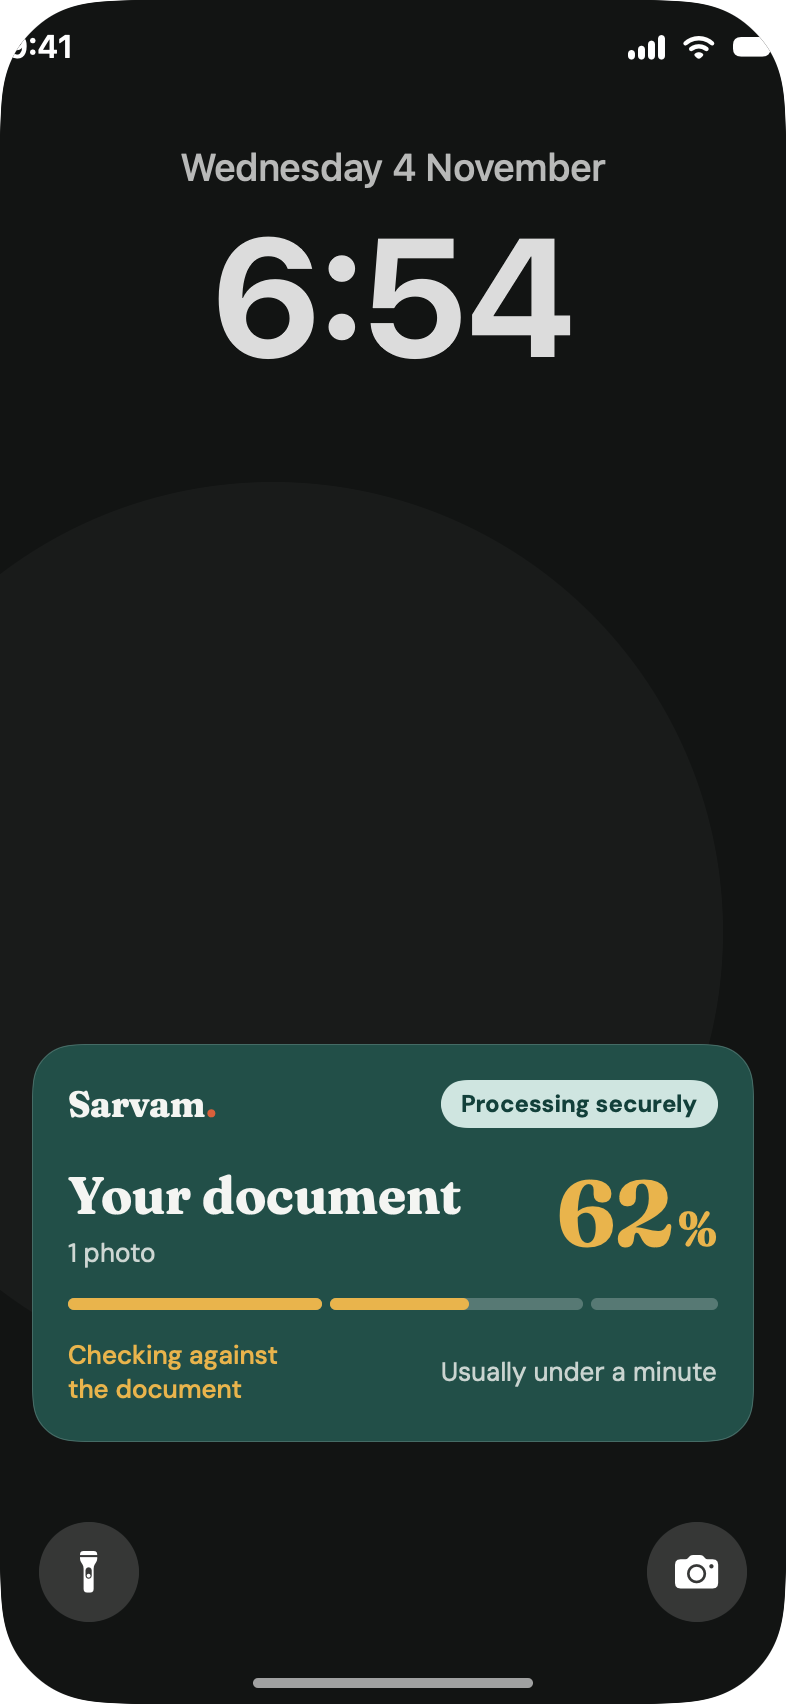
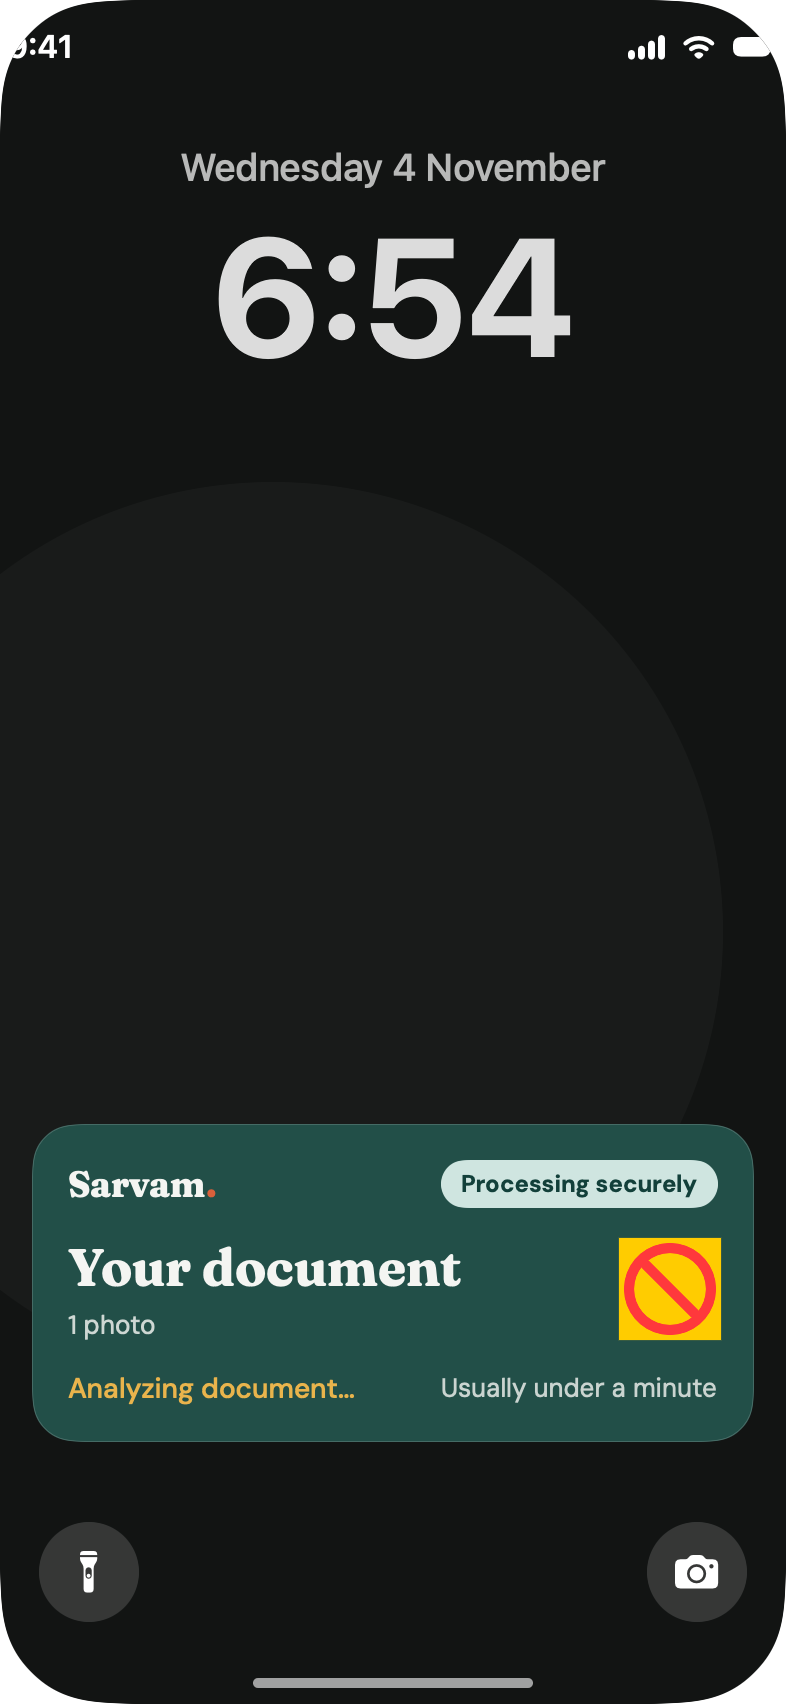
feat(live-activity): implement Option A for scan progress, add CancelScanIntent, re-render previews without percentage

Changed region(s): [[0.0305, 0.591, 0.9771, 0.8398]]

diff --git a/ios/App/SarvamWidgetExtension/SarvamActivityWidget.swift b/ios/App/SarvamWidgetExtension/SarvamActivityWidget.swift
@@ -269,8 +269,16 @@ struct CompactLeadingView: View {
                     .foregroundColor(Color.svInk)
             }
         } else {
-            ProgressRingView(progress: state.progress, size: 22)
-                .accessibilityLabel("\(state.progress)%")
+            // Scanning: Sarvam monogram badge
+            ZStack {
+                Circle()
+                    .fill(Color.svTealCard)
+                    .frame(width: 22, height: 22)
+                Text("S")
+                    .font(SarvamFonts.fraunces(size: 13, weight: .bold))
+                    .foregroundColor(Color.svOffWhite)
+            }
+            .accessibilityLabel("Sarvam analyzing document")
         }
     }
 }
@@ -289,10 +297,11 @@ struct CompactTrailingView: View {
                 .font(SarvamFonts.fraunces(size: 13, weight: .bold))
                 .foregroundColor(Color.svMustard)
         } else {
-            Text("\(state.progress)%")
-                .font(SarvamFonts.dmSans(size: 14, weight: .semibold))
-                .monospacedDigit()
-                .foregroundColor(Color.svMustard)
+            // Option A: Animated indicator, NO percentage number
+            ProgressView()
+                .progressViewStyle(CircularProgressViewStyle(tint: Color.svMustard))
+                .scaleEffect(0.85)
+                .accessibilityLabel("Analyzing document")
         }
     }
 }
@@ -314,7 +323,10 @@ struct MinimalView: View {
                     .foregroundColor(Color.svInk)
             }
         } else {
-            ProgressRingView(progress: state.progress, size: 20)
+            // Option A: Animated indicator, NO percentage number
+            ProgressView()
+                .progressViewStyle(CircularProgressViewStyle(tint: Color.svMustard))
+                .scaleEffect(0.85)
         }
     }
 }
@@ -359,7 +371,12 @@ struct ExpandedLeadingView: View {
             .padding(.leading, 8)
         } else {
             HStack(spacing: 8) {
-                ProgressRingView(progress: state.progress, size: 26)
+                ProgressView()
+                    .progressViewStyle(CircularProgressViewStyle(tint: Color.svMustard))
+                    .scaleEffect(1.2)
+                Text("Analyzing document…")
+                    .font(SarvamFonts.dmSans(size: 14, weight: .medium))
+                    .foregroundColor(Color.svMustard)
             }
             .padding(.leading, 8)
         }
@@ -378,11 +395,8 @@ struct ExpandedTrailingView: View {
         } else if state.phase == "ready" {
             EmptyView()
         } else {
-            Text("\(state.progress)%")
-                .font(SarvamFonts.fraunces(size: 28, weight: .bold))
-                .monospacedDigit()
-                .foregroundColor(Color.svMustard)
-                .padding(.trailing, 8)
+            // Option A: NO percentage number anywhere
+            EmptyView()
         }
     }
 }
@@ -517,12 +531,27 @@ struct ExpandedBottomView: View {
                     .foregroundColor(Color.svOffWhite)
                     .privacySensitive()
 
-                Text(state.stage)
-                    .font(SarvamFonts.dmSans(size: 13, weight: .regular))
-                    .foregroundColor(Color.svOffWhite.opacity(0.8))
+                HStack {
+                    Text("Usually under a minute")
+                        .font(SarvamFonts.dmSans(size: 13, weight: .regular))
+                        .foregroundColor(Color.svOffWhite.opacity(0.8))
 
-                ThreeSegmentProgressBar(progress: state.progress)
-                    .padding(.top, 4)
+                    Spacer()
+
+                    if #available(iOS 17.0, *) {
+                        Button(intent: CancelScanIntent()) {
+                            Text("Cancel")
+                                .font(SarvamFonts.dmSans(size: 12, weight: .semibold))
+                                .foregroundColor(Color.svOffWhite.opacity(0.75))
+                                .padding(.horizontal, 10)
+                                .padding(.vertical, 4)
+                                .background(Color.svDarkBtn)
+                                .clipShape(Capsule())
+                        }
+                        .buttonStyle(.plain)
+                        .accessibilityLabel("Cancel document analysis")
+                    }
+                }
             }
             .padding(.horizontal, 10)
             .padding(.bottom, 8)
@@ -566,8 +595,8 @@ struct LockScreenScanningView: View {
                     .clipShape(Capsule())
             }
 
-            // Middle Row: Title & Subtitle vs Large Percentage
-            HStack(alignment: .bottom) {
+            // Middle Row: Title & Subtitle vs Animated Indicator (Option A: NO percentage)
+            HStack(alignment: .center) {
                 VStack(alignment: .leading, spacing: 4) {
                     Text(state.displayTitle)
                         .font(SarvamFonts.fraunces(size: 26, weight: .bold))
@@ -582,19 +611,16 @@ struct LockScreenScanningView: View {
 
                 Spacer()
 
-                Text("\(state.progress)%")
-                    .font(SarvamFonts.fraunces(size: 44, weight: .bold))
-                    .monospacedDigit()
-                    .foregroundColor(Color.svMustard)
+                ProgressView()
+                    .progressViewStyle(CircularProgressViewStyle(tint: Color.svMustard))
+                    .scaleEffect(1.6)
+                    .padding(.trailing, 8)
             }
-
-            // 3-Segment Progress Bar
-            ThreeSegmentProgressBar(progress: state.progress)
 
             // Bottom Row: Stage Text vs Time Left
             HStack {
-                Text(state.stage)
-                    .font(SarvamFonts.dmSans(size: 13, weight: .medium))
+                Text("Analyzing document…")
+                    .font(SarvamFonts.dmSans(size: 14, weight: .medium))
                     .foregroundColor(Color.svMustard)
                 Spacer()
                 Text("Usually under a minute")

diff --git a/ios/scripts/render_previews.swift b/ios/scripts/render_previews.swift
@@ -252,7 +252,7 @@ struct RenderLockScreenScanningView: View {
                     .clipShape(Capsule())
             }
 
-            HStack(alignment: .bottom) {
+            HStack(alignment: .center) {
                 VStack(alignment: .leading, spacing: 4) {
                     Text(state.displayTitle)
                         .font(SarvamFonts.fraunces(size: 26, weight: .bold))
@@ -266,21 +266,16 @@ struct RenderLockScreenScanningView: View {
 
                 Spacer()
 
-                HStack(alignment: .firstTextBaseline, spacing: 2) {
-                    Text("\(state.progress)")
-                        .font(SarvamFonts.fraunces(size: 46, weight: .bold))
-                        .foregroundColor(Color.svMustard)
-                    Text("%")
-                        .font(SarvamFonts.fraunces(size: 24, weight: .bold))
-                        .foregroundColor(Color.svMustard)
-                }
+                // Option A: Animated indicator, NO percentage
+                ProgressView()
+                    .progressViewStyle(CircularProgressViewStyle(tint: Color.svMustard))
+                    .scaleEffect(1.6)
+                    .padding(.trailing, 8)
             }
 
-            ThreeSegmentProgressBar(progress: state.progress)
-
             HStack {
-                Text(state.stage)
-                    .font(SarvamFonts.dmSans(size: 13, weight: .medium))
+                Text("Analyzing document…")
+                    .font(SarvamFonts.dmSans(size: 14, weight: .medium))
                     .foregroundColor(Color.svMustard)
                 Spacer()
                 Text("Usually under a minute")
@@ -470,16 +465,22 @@ struct RenderExpandedScanningIsland: View {
     var body: some View {
         VStack(alignment: .leading, spacing: 10) {
             HStack {
-                ProgressRingView(progress: state.progress, size: 26)
-                Spacer()
-                HStack(alignment: .firstTextBaseline, spacing: 2) {
-                    Text("\(state.progress)")
-                        .font(SarvamFonts.fraunces(size: 28, weight: .bold))
-                        .foregroundColor(Color.svMustard)
-                    Text("%")
-                        .font(SarvamFonts.fraunces(size: 16, weight: .bold))
+                HStack(spacing: 8) {
+                    ProgressView()
+                        .progressViewStyle(CircularProgressViewStyle(tint: Color.svMustard))
+                        .scaleEffect(1.2)
+                    Text("Analyzing document…")
+                        .font(SarvamFonts.dmSans(size: 14, weight: .medium))
                         .foregroundColor(Color.svMustard)
                 }
+                Spacer()
+                Text("Cancel")
+                    .font(SarvamFonts.dmSans(size: 12, weight: .semibold))
+                    .foregroundColor(Color.svOffWhite.opacity(0.75))
+                    .padding(.horizontal, 10)
+                    .padding(.vertical, 4)
+                    .background(Color.svDarkBtn)
+                    .clipShape(Capsule())
             }
 
             VStack(alignment: .leading, spacing: 4) {
@@ -487,12 +488,9 @@ struct RenderExpandedScanningIsland: View {
                     .font(SarvamFonts.fraunces(size: 16, weight: .semibold))
                     .foregroundColor(Color.svOffWhite)
 
-                Text(state.stage)
+                Text("Usually under a minute")
                     .font(SarvamFonts.dmSans(size: 13, weight: .regular))
                     .foregroundColor(Color.svOffWhite.opacity(0.8))
-
-                ThreeSegmentProgressBar(progress: state.progress)
-                    .padding(.top, 4)
             }
         }
         .padding(16)

diff --git a/ios/App/SarvamWidgetExtension/SarvamLiveActivityIntents.swift b/ios/App/SarvamWidgetExtension/SarvamLiveActivityIntents.swift
@@ -44,3 +44,16 @@ public struct SkipForwardIntent: LiveActivityIntent {
         return .result()
     }
 }
+
+@available(iOS 17.0, *)
+public struct CancelScanIntent: LiveActivityIntent {
+    public static var title: LocalizedStringResource = "Cancel Document Analysis"
+    public static var isDiscoverable: Bool = false
+
+    public init() {}
+
+    public func perform() async throws -> some IntentResult {
+        NotificationCenter.default.post(name: NSNotification.Name("SarvamCancelScanRequested"), object: nil)
+        return .result()
+    }
+}
